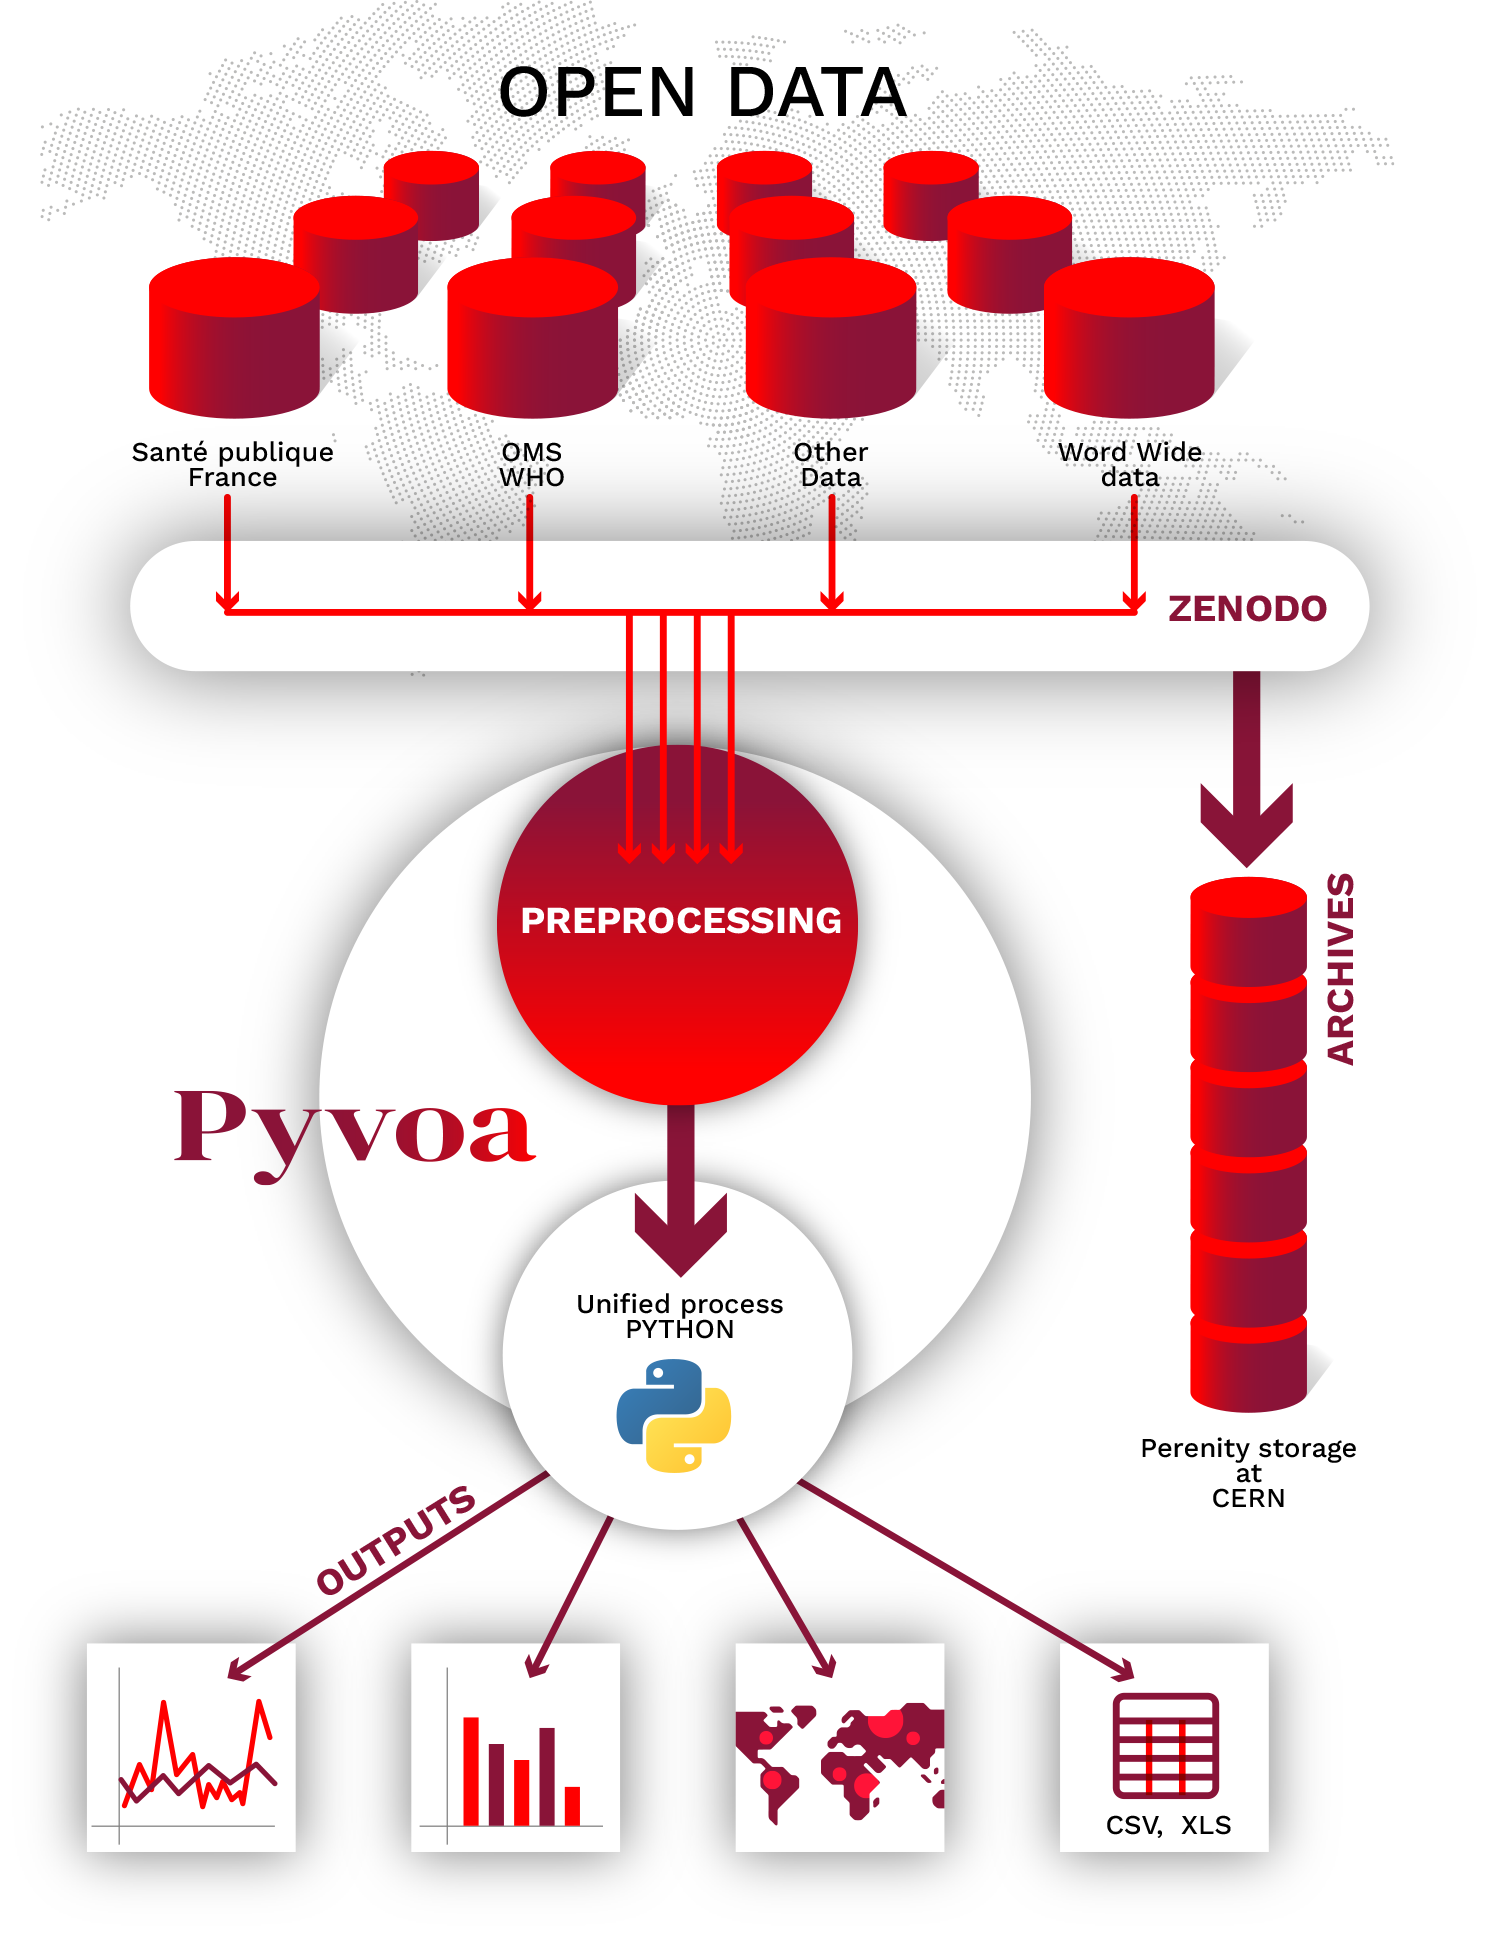
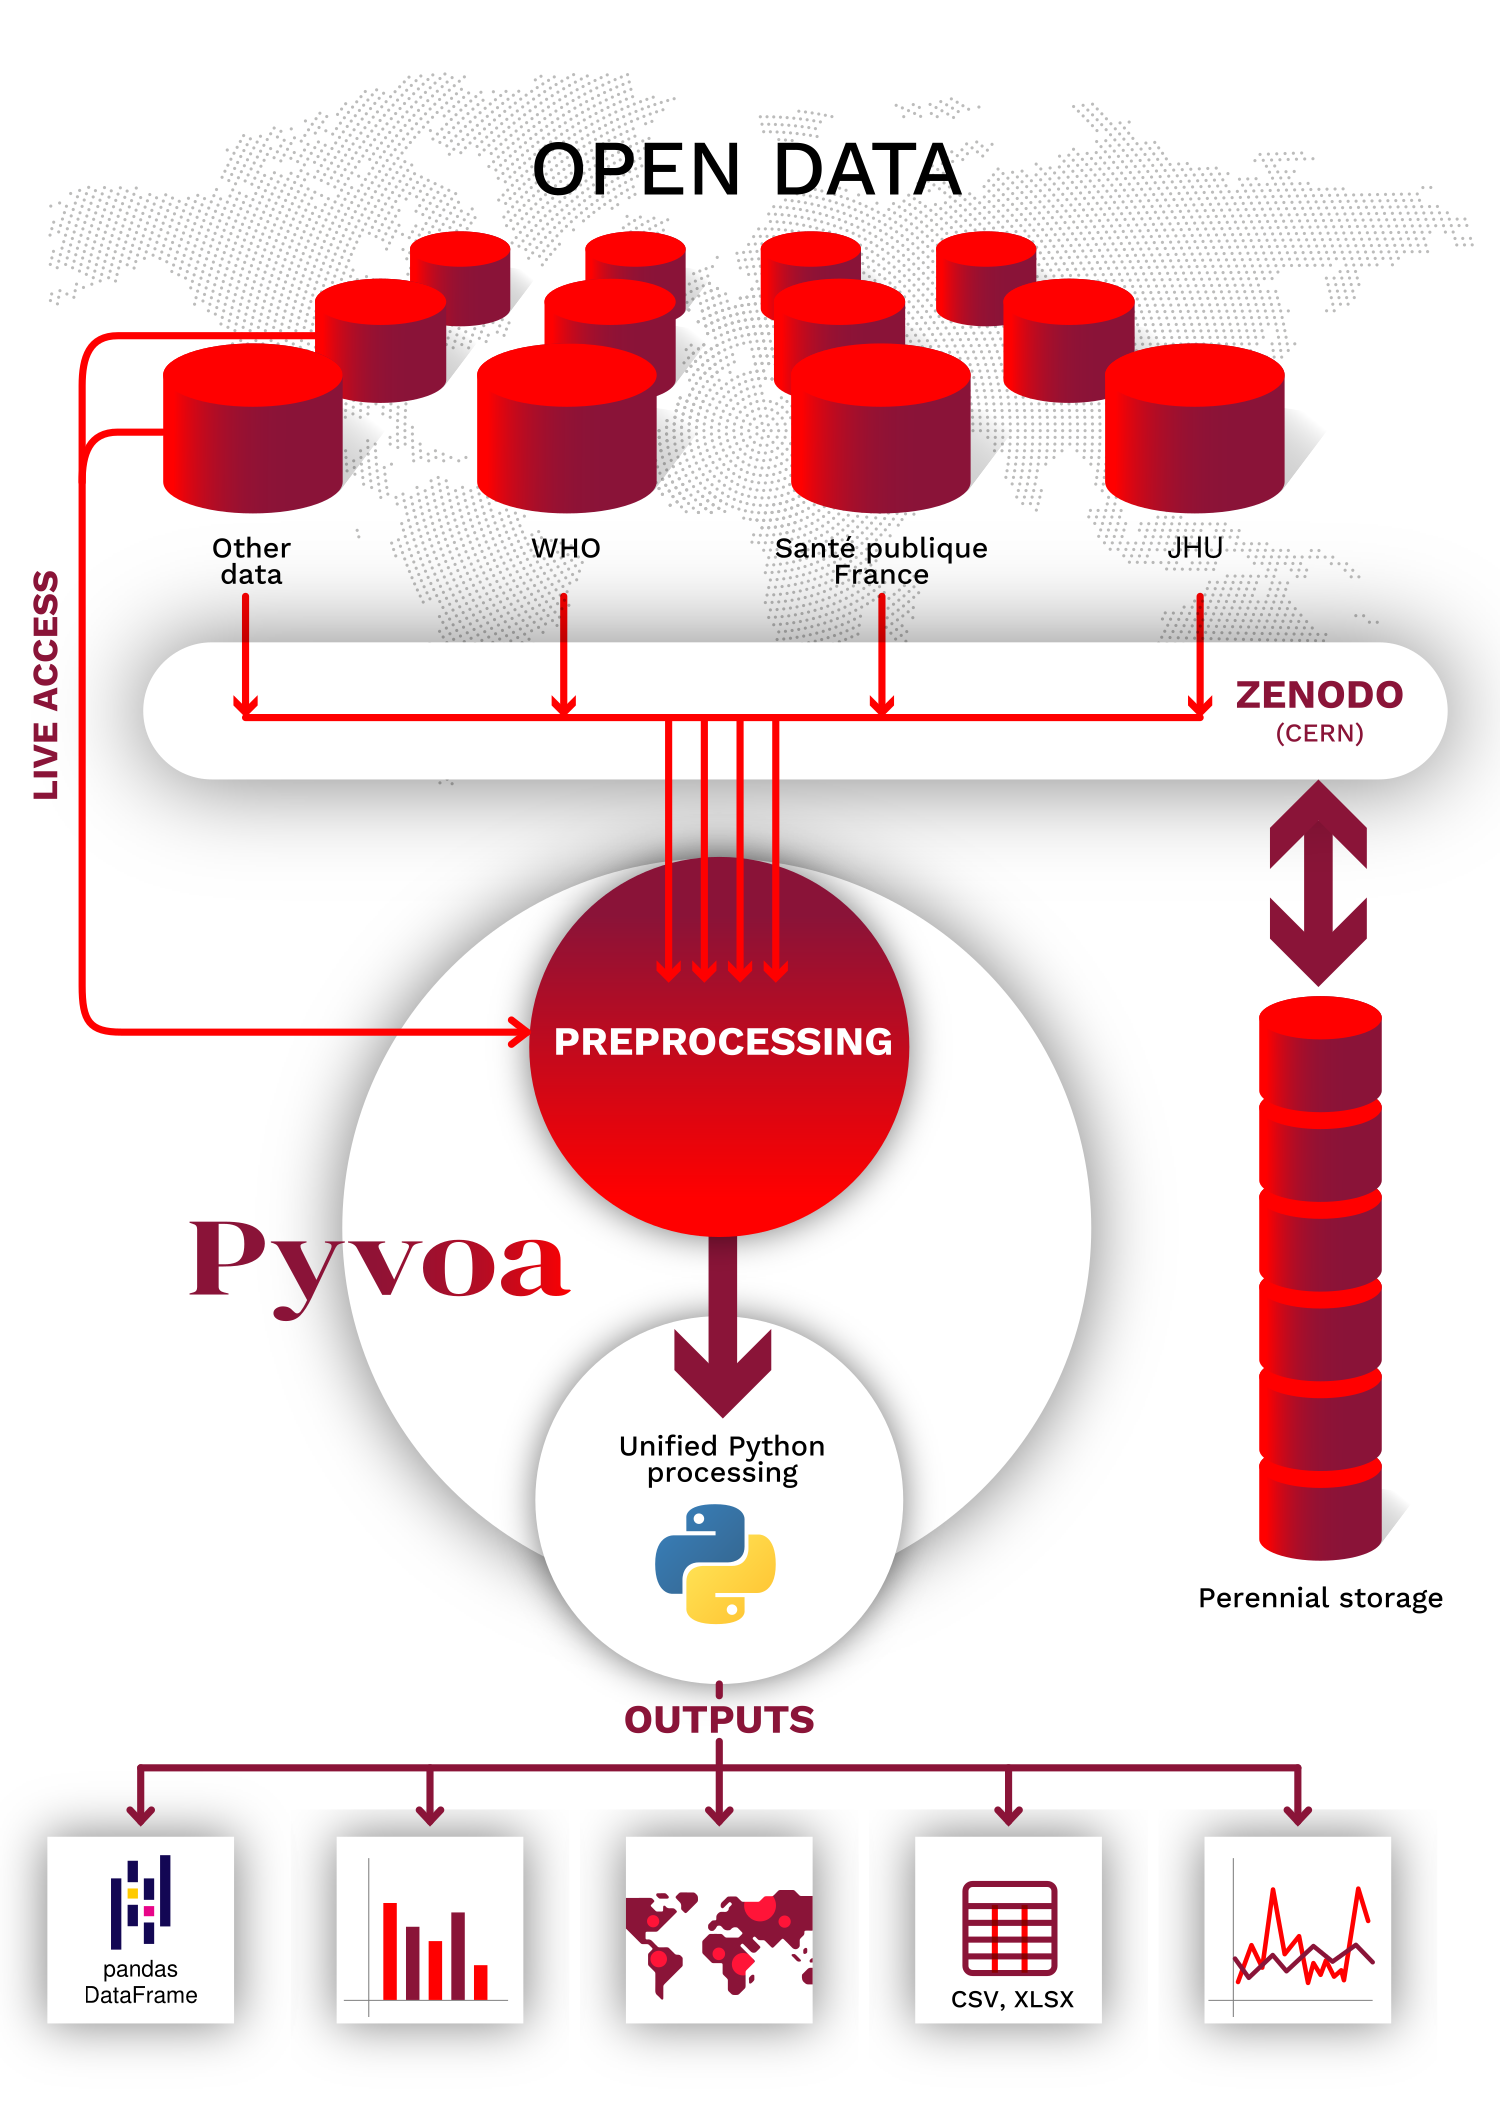
docs: take the landing-page figures from the current paper
fig2, fig3 and the architecture schema are rendered from the PDFs in
paper/figures. The map listing follows the paper, which no longer passes
what='daily', and the schema caption mentions live access.

diff --git a/docs/index.rst b/docs/index.rst
@@ -47,19 +47,19 @@ Mapping a grouping
 .. code-block:: python
 
    pf.setwhom('jhu')             # Johns Hopkins CSSE, worldwide
-   pf.map(which='tot_confirmed', where='G20',
-          what='daily', when='31/12/2021')
+   pf.map(which='tot_confirmed', where='G20', when='31/12/2021')
 
 One keyword selects the G20 member states and the geolocation layer supplies
-their geometries; countries outside the grouping are left unpainted.
+their geometries; countries outside the grouping are left unpainted. Without
+``what``, a ``tot_`` variable is mapped at its cumulative value.
 
 .. figure:: _static/img/fig3_map_g20.png
-   :alt: World map with the G20 member states shaded by daily confirmed
+   :alt: World map with the G20 member states shaded by total confirmed
          COVID-19 cases on 31 December 2021
    :width: 95%
    :align: center
 
-   The same four keywords, drawn geographically instead of against time.
+   Three keywords, drawn geographically instead of against time.
 
 Both listings are the first two examples of the `software paper
 <https://github.com/pyvoa/pyvoa/tree/main/paper>`_, and are run verbatim by
@@ -69,17 +69,19 @@ How it fits together
 --------------------
 
 .. figure:: _static/img/architecture.png
-   :alt: Open data sources feed a Zenodo archive, then pyvoa preprocessing,
-         then a unified Python interface, then charts, maps and tables
+   :alt: Open data sources are mirrored on Zenodo for perennial storage, or
+         read live; pyvoa preprocesses them into a unified Python interface,
+         whose outputs are DataFrames, charts, maps and CSV or XLSX tables
    :width: 60%
    :align: center
    :name: fig-architecture
 
    Each database is described by a JSON file rather than by code, so the
    catalogue grows without the library changing. The sources are mirrored on
-   Zenodo, which is what makes a given release reproducible; the geolocation
-   layer reconciles the location identifiers; and the result is one pandas
-   DataFrame that any of the backends can draw.
+   Zenodo, which is what makes a given release reproducible, and can also be
+   read live from their providers; the geolocation layer reconciles the
+   location identifiers; and the result is one pandas DataFrame that any of
+   the backends can draw.
 
 .. toctree::
    :maxdepth: 2
